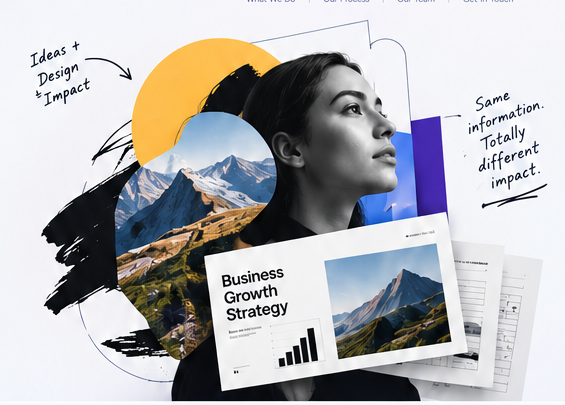
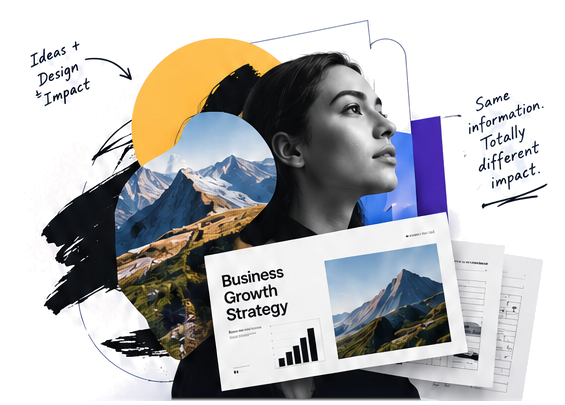
fix: standardize navbar across all pages, fix letter clipping on headings, and refine about hero artwork

Changed region(s): [[0.3009, 0.9778, 0.7522, 1.0], [0.6018, 0.0, 0.6619, 0.0296], [0.8726, 0.0, 0.9027, 0.0296]]

diff --git a/src/components/about/AboutHero/AboutHero.module.css b/src/components/about/AboutHero/AboutHero.module.css
@@ -78,7 +78,7 @@
   font-size: clamp(2.75rem, 4.6vw, 4.5rem);
   font-weight: 850;
   color: #07152F;
-  line-height: 1.08;
+  line-height: 1.2;
   letter-spacing: -0.04em;
   margin-bottom: 1.75rem;
 }
@@ -91,6 +91,10 @@
   background: linear-gradient(135deg, #0066FF 0%, #D82488 100%);
   -webkit-background-clip: text;
   -webkit-text-fill-color: transparent;
+  display: inline-block;
+  padding-bottom: 0.18em;
+  margin-bottom: -0.18em;
+  padding-right: 0.05em;
 }
 
 .heroParagraph {
@@ -126,26 +130,47 @@
   justify-content: center;
   align-items: center;
   width: 100%;
+  position: relative;
 }
 
 .artworkWrapper {
   width: 100%;
-  max-width: 560px;
+  max-width: 580px;
   display: flex;
   justify-content: center;
   position: relative;
   transition: transform var(--transition-normal);
 }
 
+.artworkWrapper::before {
+  content: '';
+  position: absolute;
+  top: 5%;
+  left: 10%;
+  right: 10%;
+  bottom: 5%;
+  background: radial-gradient(circle at 45% 45%, rgba(0, 102, 255, 0.08) 0%, rgba(216, 36, 136, 0.04) 42%, transparent 72%);
+  filter: blur(28px);
+  pointer-events: none;
+  z-index: 0;
+}
+
 .artworkWrapper:hover {
   transform: translateY(-4px);
 }
 
+.artworkWrapper:hover .artworkImage {
+  filter: drop-shadow(0 18px 36px rgba(7, 21, 47, 0.09));
+}
+
 .artworkImage {
+  position: relative;
+  z-index: 1;
   width: 100%;
   height: auto;
   display: block;
-  filter: drop-shadow(0 16px 36px rgba(5, 26, 62, 0.08));
+  filter: drop-shadow(0 12px 28px rgba(7, 21, 47, 0.06));
+  transition: filter var(--transition-normal);
 }
 
 /* Responsive */

diff --git a/src/components/Header/Header.jsx b/src/components/Header/Header.jsx
@@ -26,11 +26,13 @@ export default function Header() {
     setIsMobileMenuOpen(false);
   }
 
-  // Track scroll state for enhanced subtle shadow
+  // Track scroll state
   useEffect(() => {
     const handleScroll = () => {
       setIsScrolled(window.scrollY > 20);
     };
+
+    handleScroll();
     window.addEventListener('scroll', handleScroll, { passive: true });
     return () => window.removeEventListener('scroll', handleScroll);
   }, []);
@@ -47,14 +49,10 @@ export default function Header() {
     };
   }, [isMobileMenuOpen]);
 
-  const isDarkHeroPage = location.pathname === '/contact';
-
   return (
     <>
       <header
-        className={`${styles.header} ${isScrolled ? styles.headerScrolled : ''} ${
-          isDarkHeroPage ? styles.headerDark : ''
-        }`}
+        className={`${styles.header} ${isScrolled ? styles.headerScrolled : ''}`}
       >
       {/* Accessible Skip Link */}
       <a href="#main-content" className={styles.skipLink}>
@@ -184,12 +182,7 @@ export default function Header() {
         />
       )}
     </header>
-    <div
-      className={`${styles.headerSpacer} ${
-        isDarkHeroPage ? styles.headerSpacerHidden : ''
-      }`}
-      aria-hidden="true"
-    />
+    <div className={styles.headerSpacer} aria-hidden="true" />
   </>
   );
 }

diff --git a/src/components/contact/ContactHero/ContactHero.module.css b/src/components/contact/ContactHero/ContactHero.module.css
@@ -2,7 +2,7 @@
   position: relative;
   background: radial-gradient(circle at 75% 20%, rgba(99, 102, 241, 0.15) 0%, rgba(2, 8, 19, 0.98) 50%, #010810 100%);
   background-color: #010810;
-  padding-top: calc(var(--header-height, 80px) + 2.5rem);
+  padding-top: clamp(2.5rem, 5vw, 4.5rem);
   padding-bottom: clamp(3.5rem, 6vw, 5.5rem);
   overflow: hidden;
   color: #FFFFFF;
@@ -61,7 +61,7 @@
   font-size: clamp(2.5rem, 4.5vw, 4.25rem);
   font-weight: 800;
   color: #FFFFFF;
-  line-height: 1.08;
+  line-height: 1.22;
   letter-spacing: -0.035em;
   margin: 0 0 1.5rem 0;
 }
@@ -71,6 +71,9 @@
   -webkit-background-clip: text;
   -webkit-text-fill-color: transparent;
   display: inline-block;
+  padding-bottom: 0.18em;
+  margin-bottom: -0.18em;
+  padding-right: 0.05em;
   filter: drop-shadow(0 0 24px rgba(217, 70, 239, 0.35));
 }
 
@@ -211,7 +214,7 @@
 
 @media (max-width: 640px) {
   .heroSection {
-    padding-top: calc(var(--header-height, 80px) + 1.5rem);
+    padding-top: 2rem;
     padding-bottom: 3rem;
   }
 

diff --git a/src/components/Header/Header.module.css b/src/components/Header/Header.module.css
@@ -16,7 +16,7 @@
 }
 
 .headerScrolled {
-  background-color: rgba(245, 248, 254, 0.85);
+  background-color: rgba(245, 248, 254, 0.88);
   backdrop-filter: blur(20px);
   -webkit-backdrop-filter: blur(20px);
   border-bottom: 1px solid rgba(5, 26, 62, 0.06);
@@ -28,31 +28,7 @@
   width: 100%;
   flex-shrink: 0;
   pointer-events: none;
-}
-
-.headerSpacerHidden {
-  display: none;
-}
-
-/* Dark header styles for dark hero page */
-.headerDark:not(.headerScrolled) .navLink {
-  color: rgba(255, 255, 255, 0.9);
-}
-
-.headerDark:not(.headerScrolled) .navLink:hover {
-  color: #FFFFFF;
-}
-
-.headerDark:not(.headerScrolled) .navLinkActive {
-  color: #FFFFFF;
-}
-
-.headerDark:not(.headerScrolled) .logo :global(img) {
-  filter: brightness(0) invert(1);
-}
-
-.headerDark:not(.headerScrolled) .mobileMenuToggle {
-  color: #FFFFFF;
+  background-color: var(--background);
 }
 
 .headerContainer {

diff --git a/src/components/common/Logo/Logo.jsx b/src/components/common/Logo/Logo.jsx
@@ -1,13 +1,19 @@
 import React from 'react';
 import { Link } from 'react-router-dom';
 import logoImg from '../../../assets/logo.png';
+import logoWhiteImg from '../../../assets/logo-white.png';
 import styles from './Logo.module.css';
 
-export default function Logo({ className = '', height, alt = 'Slidevance - Ideas That Slide. Solutions That Advance.' }) {
+export default function Logo({
+  className = '',
+  height,
+  dark = false,
+  alt = 'Slidevance - Ideas That Slide. Solutions That Advance.'
+}) {
   return (
     <Link to="/" className={`${styles.logoContainer} ${className}`} aria-label="Slidevance - Home">
       <img
-        src={logoImg}
+        src={dark ? logoWhiteImg : logoImg}
         alt={alt}
         className={styles.logoImage}
         style={height ? { height: `${height}px` } : undefined}

diff --git a/src/components/about/AboutProcess/AboutProcess.module.css b/src/components/about/AboutProcess/AboutProcess.module.css
@@ -45,7 +45,7 @@
   font-size: clamp(2.25rem, 3.2vw, 3rem);
   font-weight: 850;
   color: #07152F;
-  line-height: 1.15;
+  line-height: 1.22;
   letter-spacing: -0.03em;
   margin-bottom: 1.25rem;
 }
@@ -54,6 +54,10 @@
   background: linear-gradient(135deg, #0052D9 0%, #7928CA 100%);
   -webkit-background-clip: text;
   -webkit-text-fill-color: transparent;
+  display: inline-block;
+  padding-bottom: 0.18em;
+  margin-bottom: -0.18em;
+  padding-right: 0.05em;
 }
 
 .description {

diff --git a/src/components/about/AboutPromise/AboutPromise.module.css b/src/components/about/AboutPromise/AboutPromise.module.css
@@ -45,7 +45,7 @@
   font-size: clamp(2.25rem, 3.2vw, 3rem);
   font-weight: 850;
   color: #07152F;
-  line-height: 1.15;
+  line-height: 1.22;
   letter-spacing: -0.03em;
   margin-bottom: 1.25rem;
 }
@@ -54,6 +54,10 @@
   background: linear-gradient(135deg, #0066FF 0%, #B828E0 100%);
   -webkit-background-clip: text;
   -webkit-text-fill-color: transparent;
+  display: inline-block;
+  padding-bottom: 0.18em;
+  margin-bottom: -0.18em;
+  padding-right: 0.05em;
 }
 
 .description {

diff --git a/src/components/about/AboutCTA/AboutCTA.module.css b/src/components/about/AboutCTA/AboutCTA.module.css
@@ -47,7 +47,7 @@
   font-size: clamp(1.75rem, 2.4vw, 2.35rem);
   font-weight: 850;
   color: #FFFFFF;
-  line-height: 1.2;
+  line-height: 1.24;
   letter-spacing: -0.03em;
 }
 
@@ -55,6 +55,10 @@
   background: linear-gradient(135deg, #00D2FF 0%, #D82488 100%);
   -webkit-background-clip: text;
   -webkit-text-fill-color: transparent;
+  display: inline-block;
+  padding-bottom: 0.18em;
+  margin-bottom: -0.18em;
+  padding-right: 0.05em;
 }
 
 .underDecoration {

diff --git a/src/components/about/AboutDNA/AboutDNA.module.css b/src/components/about/AboutDNA/AboutDNA.module.css
@@ -60,7 +60,7 @@
   font-size: clamp(2.25rem, 3.2vw, 3rem);
   font-weight: 850;
   color: #FFFFFF;
-  line-height: 1.15;
+  line-height: 1.22;
   letter-spacing: -0.03em;
 }
 
@@ -68,6 +68,10 @@
   background: linear-gradient(135deg, #00D2FF 0%, #D82488 100%);
   -webkit-background-clip: text;
   -webkit-text-fill-color: transparent;
+  display: inline-block;
+  padding-bottom: 0.18em;
+  margin-bottom: -0.18em;
+  padding-right: 0.05em;
 }
 
 .subtitle {

diff --git a/src/components/pricing/PricingMain/PricingMain.module.css b/src/components/pricing/PricingMain/PricingMain.module.css
@@ -43,7 +43,7 @@
   font-size: clamp(1.85rem, 3vw, 2.45rem);
   font-weight: 800;
   color: #051A3E;
-  line-height: 1.15;
+  line-height: 1.22;
   letter-spacing: -0.03em;
   margin: 0 0 0.85rem 0;
 }
@@ -53,6 +53,9 @@
   -webkit-background-clip: text;
   -webkit-text-fill-color: transparent;
   display: inline-block;
+  padding-bottom: 0.18em;
+  margin-bottom: -0.18em;
+  padding-right: 0.05em;
 }
 
 .projectSubtitle {

diff --git a/src/components/pricing/PricingHero/PricingHero.module.css b/src/components/pricing/PricingHero/PricingHero.module.css
@@ -58,7 +58,7 @@
   font-size: clamp(2.5rem, 4.5vw, 4.25rem);
   font-weight: 800;
   color: #051A3E;
-  line-height: 1.1;
+  line-height: 1.22;
   letter-spacing: -0.035em;
   margin: 0 0 1.25rem 0;
 }
@@ -68,6 +68,9 @@
   -webkit-background-clip: text;
   -webkit-text-fill-color: transparent;
   display: inline-block;
+  padding-bottom: 0.18em;
+  margin-bottom: -0.18em;
+  padding-right: 0.05em;
 }
 
 .heroParagraph {

diff --git a/src/components/pricing/PricingPlansCarousel/PricingPlansCarousel.module.css b/src/components/pricing/PricingPlansCarousel/PricingPlansCarousel.module.css
@@ -46,7 +46,7 @@
   font-size: clamp(2rem, 3.2vw, 2.75rem);
   font-weight: 800;
   color: #051A3E;
-  line-height: 1.18;
+  line-height: 1.24;
   letter-spacing: -0.03em;
   margin: 0 0 0.85rem 0;
 }
@@ -56,6 +56,9 @@
   -webkit-background-clip: text;
   -webkit-text-fill-color: transparent;
   display: inline-block;
+  padding-bottom: 0.18em;
+  margin-bottom: -0.18em;
+  padding-right: 0.05em;
 }
 
 .subtitle {
